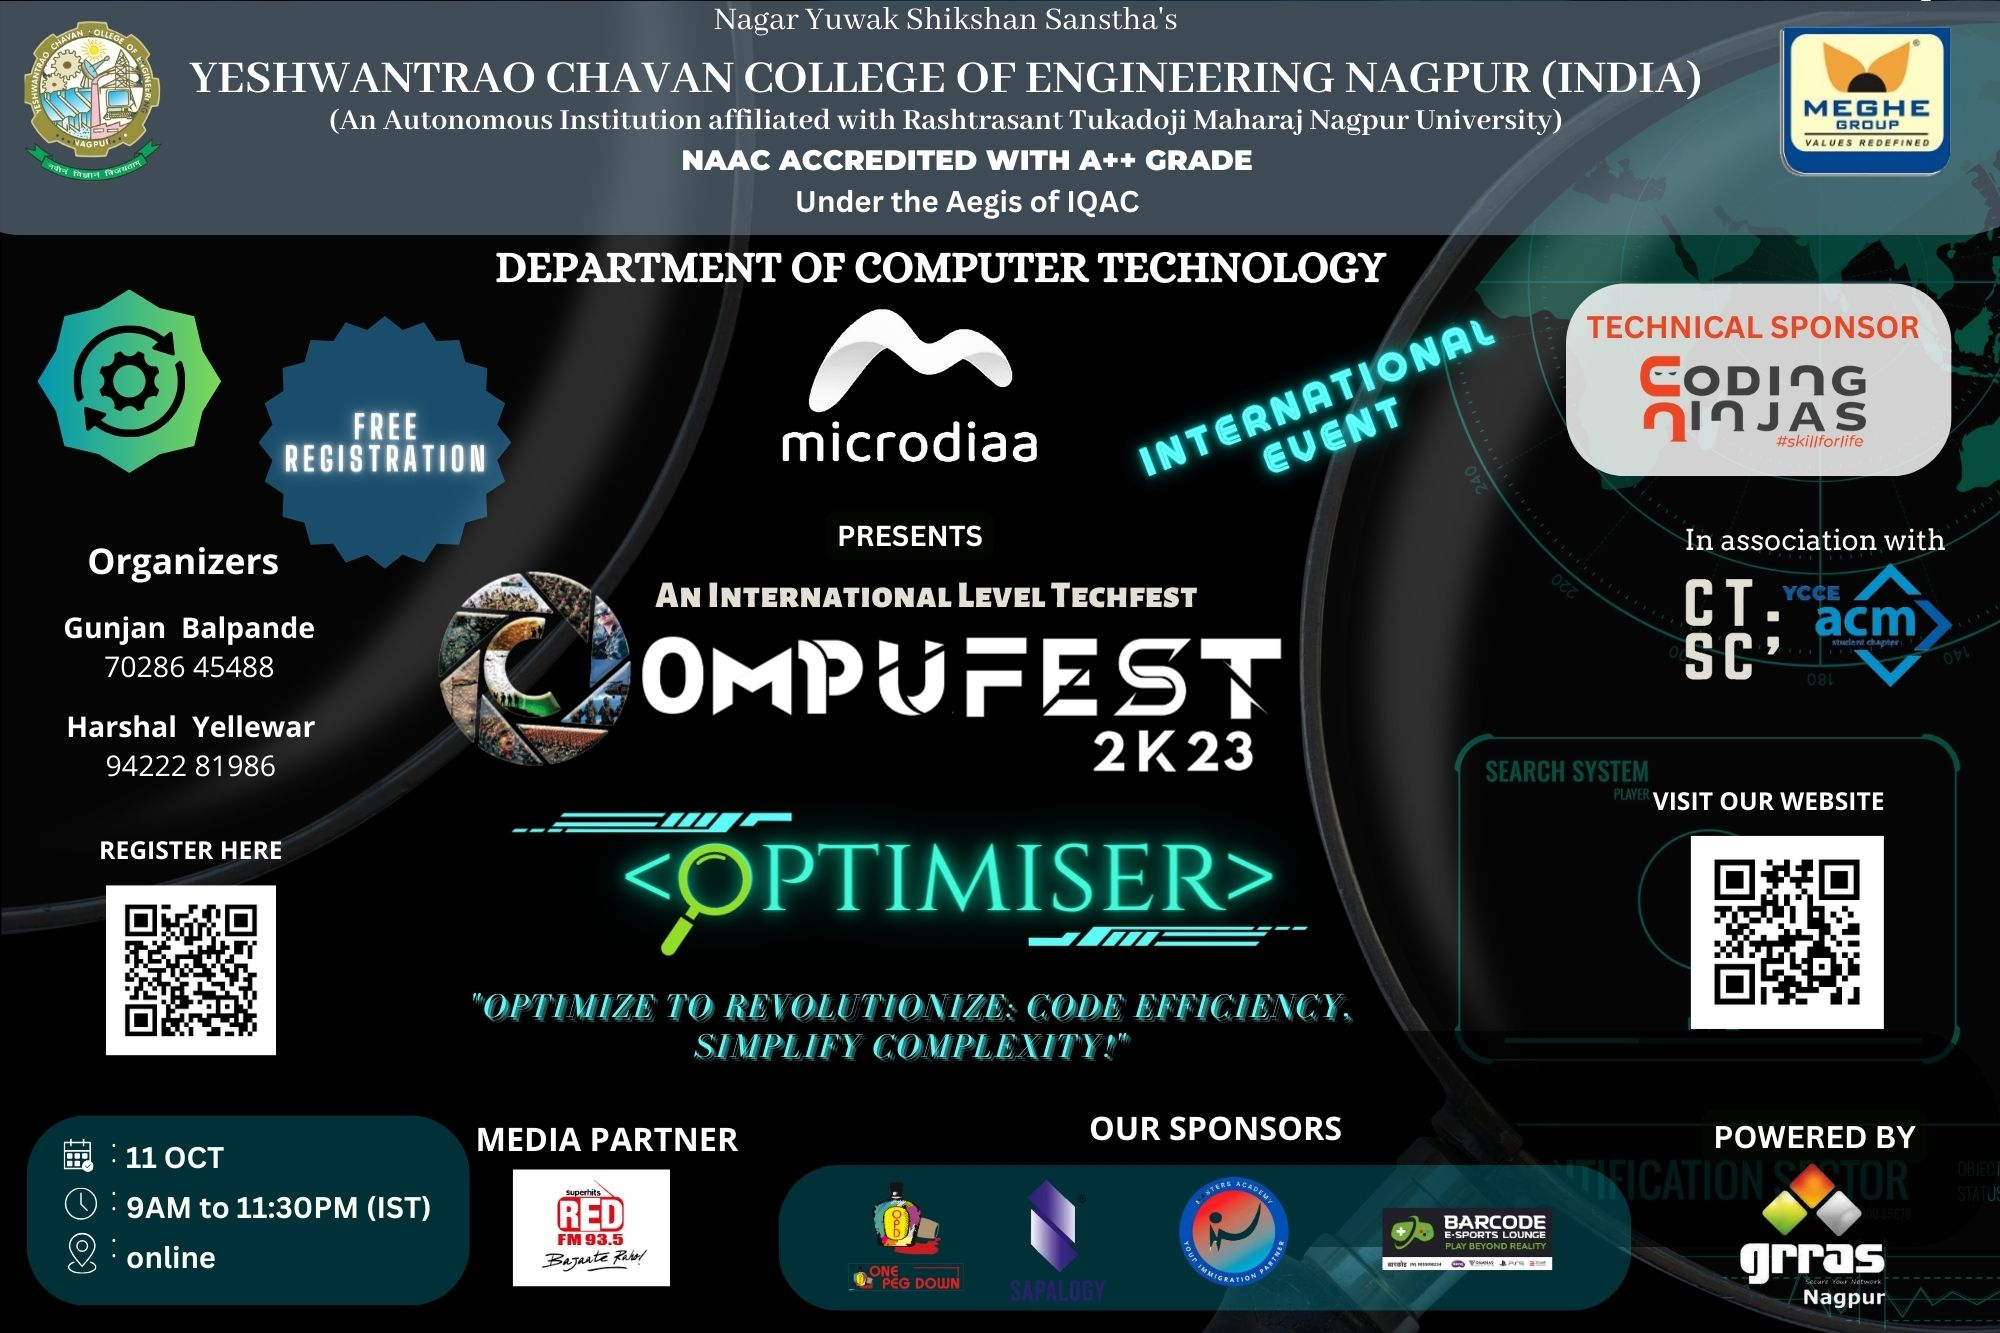
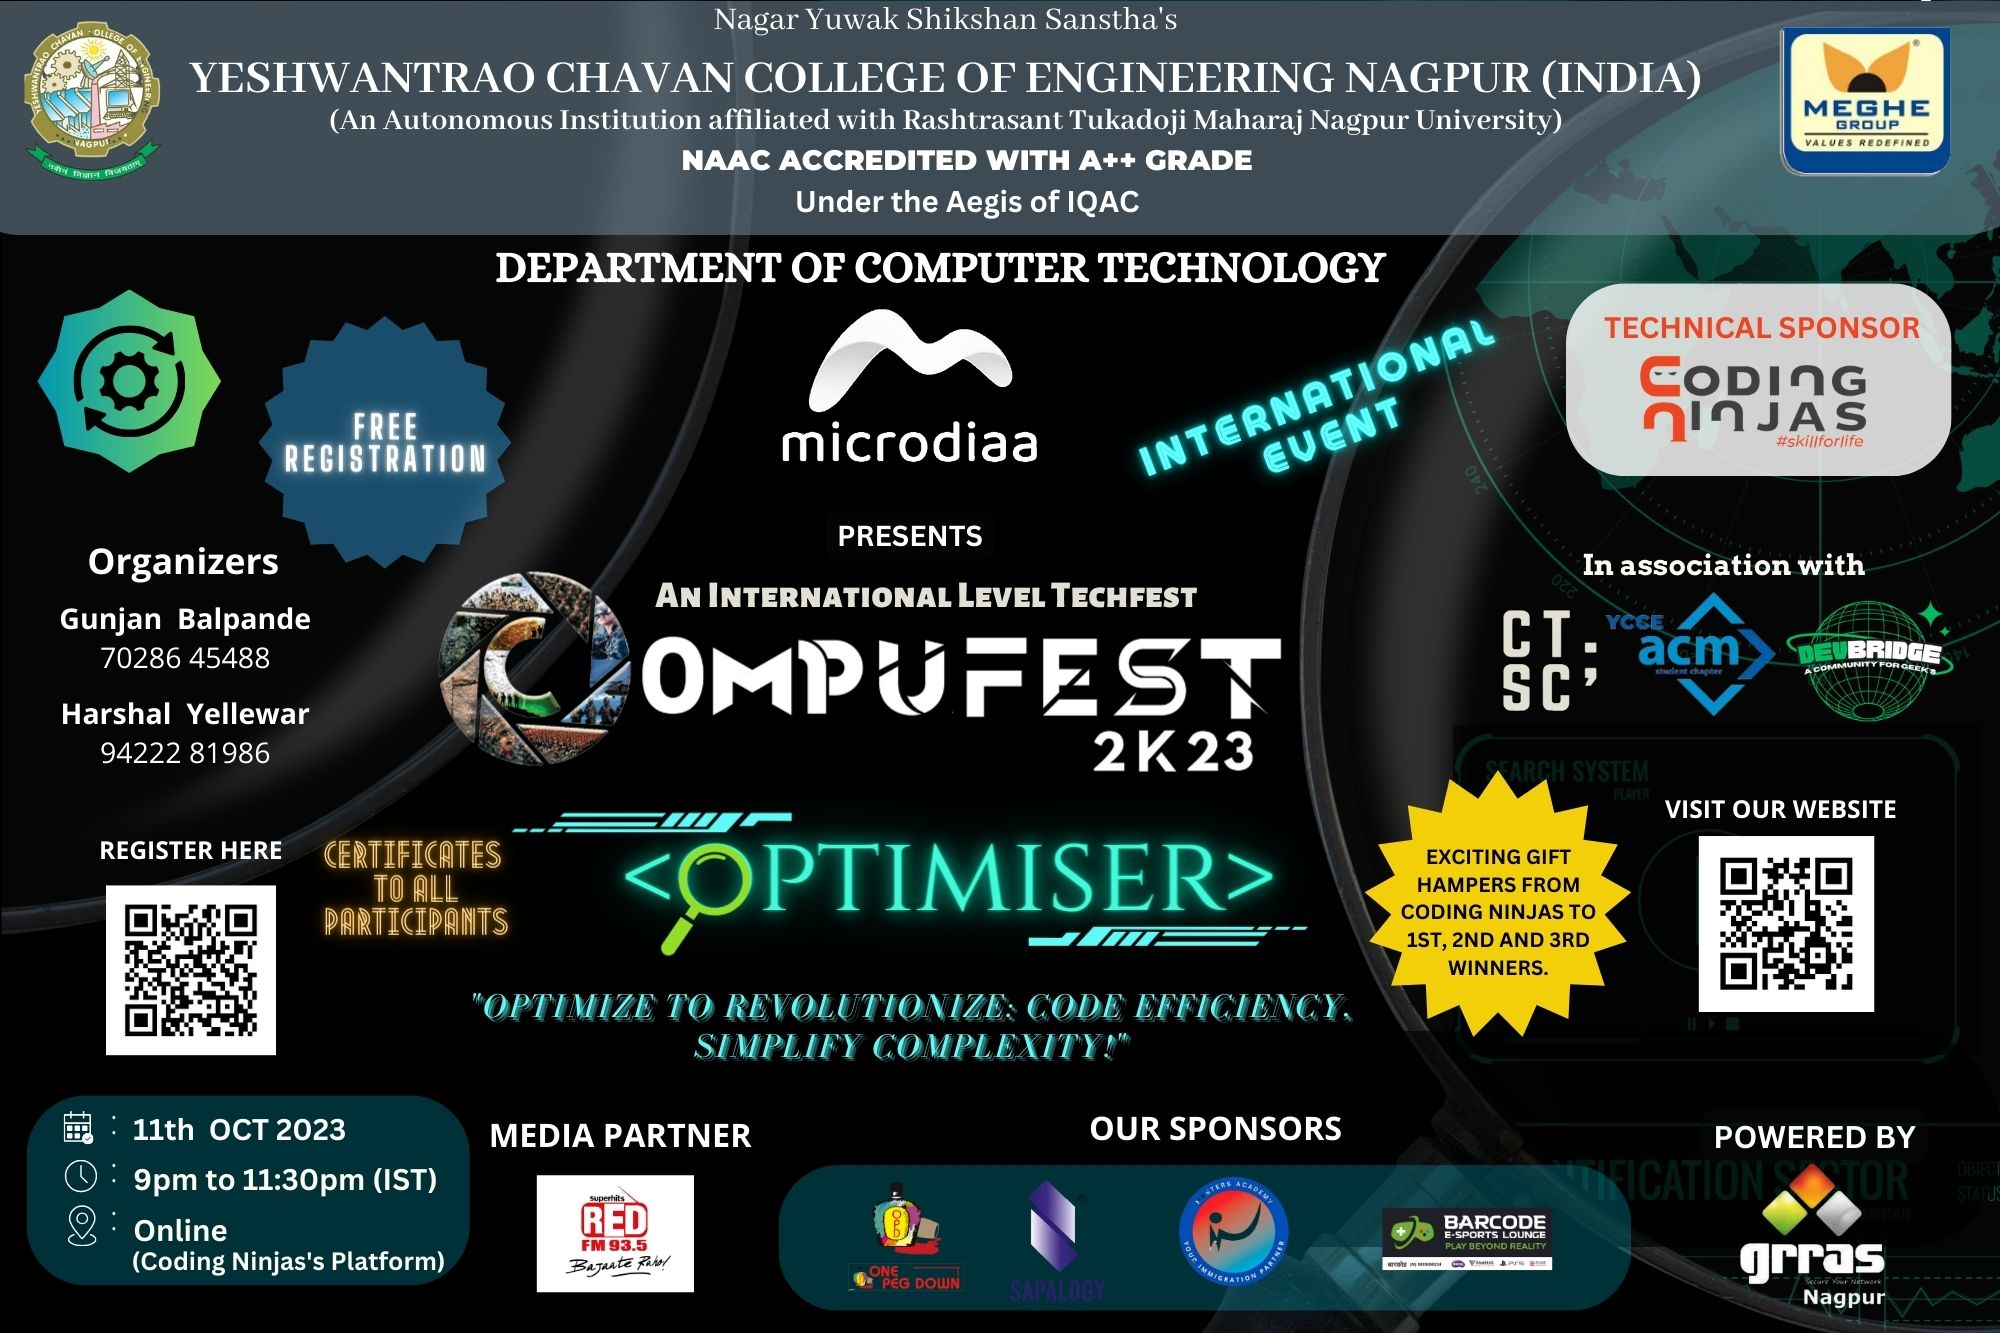
Changed the timeline code and added the new latest flyers 29/09/2023

diff --git a/app/components/timeline.tsx b/app/components/timeline.tsx
@@ -4,7 +4,7 @@ import 'react-vertical-timeline-component/style.min.css';
 
 const timelineContent = [
   {
-    date: '5 Oct 2023',
+    date: '11 Oct 2023',
     title: 'UI UX Bootcamp',
     iconurl:'/AnimateIcons/computer.gif',
     imageurl: '/EventsLogo/UiUx.png',
@@ -12,7 +12,7 @@ const timelineContent = [
     description: 'This Workshop is about on Web3',
   },
   {
-    date: '5 Oct 2023',
+    date: '11 Oct 2023',
     title: 'Versus Coding',
     iconurl:'/AnimateIcons/vs.gif',
     imageurl: '/EventsLogo/VersusCoding.png',
@@ -20,29 +20,22 @@ const timelineContent = [
     description: 'This Workshop is about on Web3',
   },
   {
-    date: '5 Oct 2023',
+    date: '11 Oct 2023',
     title: 'WebNetics',
     iconurl:'/AnimateIcons/statistics.gif',
     imageurl: '/EventsLogo/WebNetics.png',
     time: '2pm-3pm',
     description: 'This Workshop is about on Web3',
   },
-  {
-    date: '5 Oct 2023',
-    title: 'Versus Coding(R-2)',
-    iconurl:'/AnimateIcons/vs.gif',
-    imageurl: '/EventsLogo/VersusCoding.png',
-    time: '3pm-4pm',
-    description: 'This Workshop is about on Web3',
-  },{
-    date: '5 Oct 2023',
+ {
+    date: '11 Oct 2023',
     title: 'Optimiser',
     iconurl:'/AnimateIcons/setting.gif',
     imageurl: '/EventsLogo/Optimizer.png',
     time: '9pm-11.30pm',
     description: 'This Workshop is about on Web3',
   },{
-    date: '6 Oct 2023',
+    date: '12 Oct 2023',
     title: 'Scripted Secrets',
     iconurl:'/AnimateIcons/cyborg.gif',
     imageurl: '/EventsLogo/Scripted.png',
@@ -50,15 +43,7 @@ const timelineContent = [
     description: 'This Workshop is about on Web3',
   },
   {
-    date: '6 Oct 2023',
-    title: 'Versus Coding(R-3)',
-    iconurl:'/AnimateIcons/vs.gif',
-    imageurl: '/EventsLogo/VersusCoding.png',
-    time: '2pm-4pm',
-    description: 'This Workshop is about on Web3',
-  },
-  {
-    date: '6 Oct 2023',
+    date: '12 Oct 2023',
     title: 'Arduino Workshop',
     iconurl:'/AnimateIcons/multiple-sensor.gif',
     imageurl: '/EventsLogo/Arduino.png',
@@ -66,7 +51,7 @@ const timelineContent = [
     description: 'This Workshop is about on Web3',
   },
   {
-    date: '6 Oct 2023',
+    date: '12 Oct 2023',
     title: 'Web3 Workshop', 
     iconurl:'/AnimateIcons/blocked.gif',
     imageurl: '/EventsLogo/Web3.png',
@@ -74,7 +59,7 @@ const timelineContent = [
     description: 'This Workshop is about on Web3',
   },
   {
-    date: '7 Oct 2023',
+    date: '12 Oct 2023',
     title: 'Power Bi Workshop',
     iconurl:'/AnimateIcons/stats.gif',
     imageurl: '/EventsLogo/PowerBI.png',
@@ -82,7 +67,7 @@ const timelineContent = [
     description: 'This Workshop is about on Web3',
   },
   {
-    date: '6 Oct 2023',
+    date: '12 Oct 2023',
     title: 'Computing Technologies',
     iconurl:'/AnimateIcons/coding.gif',
     imageurl: '/EventsLogo/ComputingTechnology.png',
